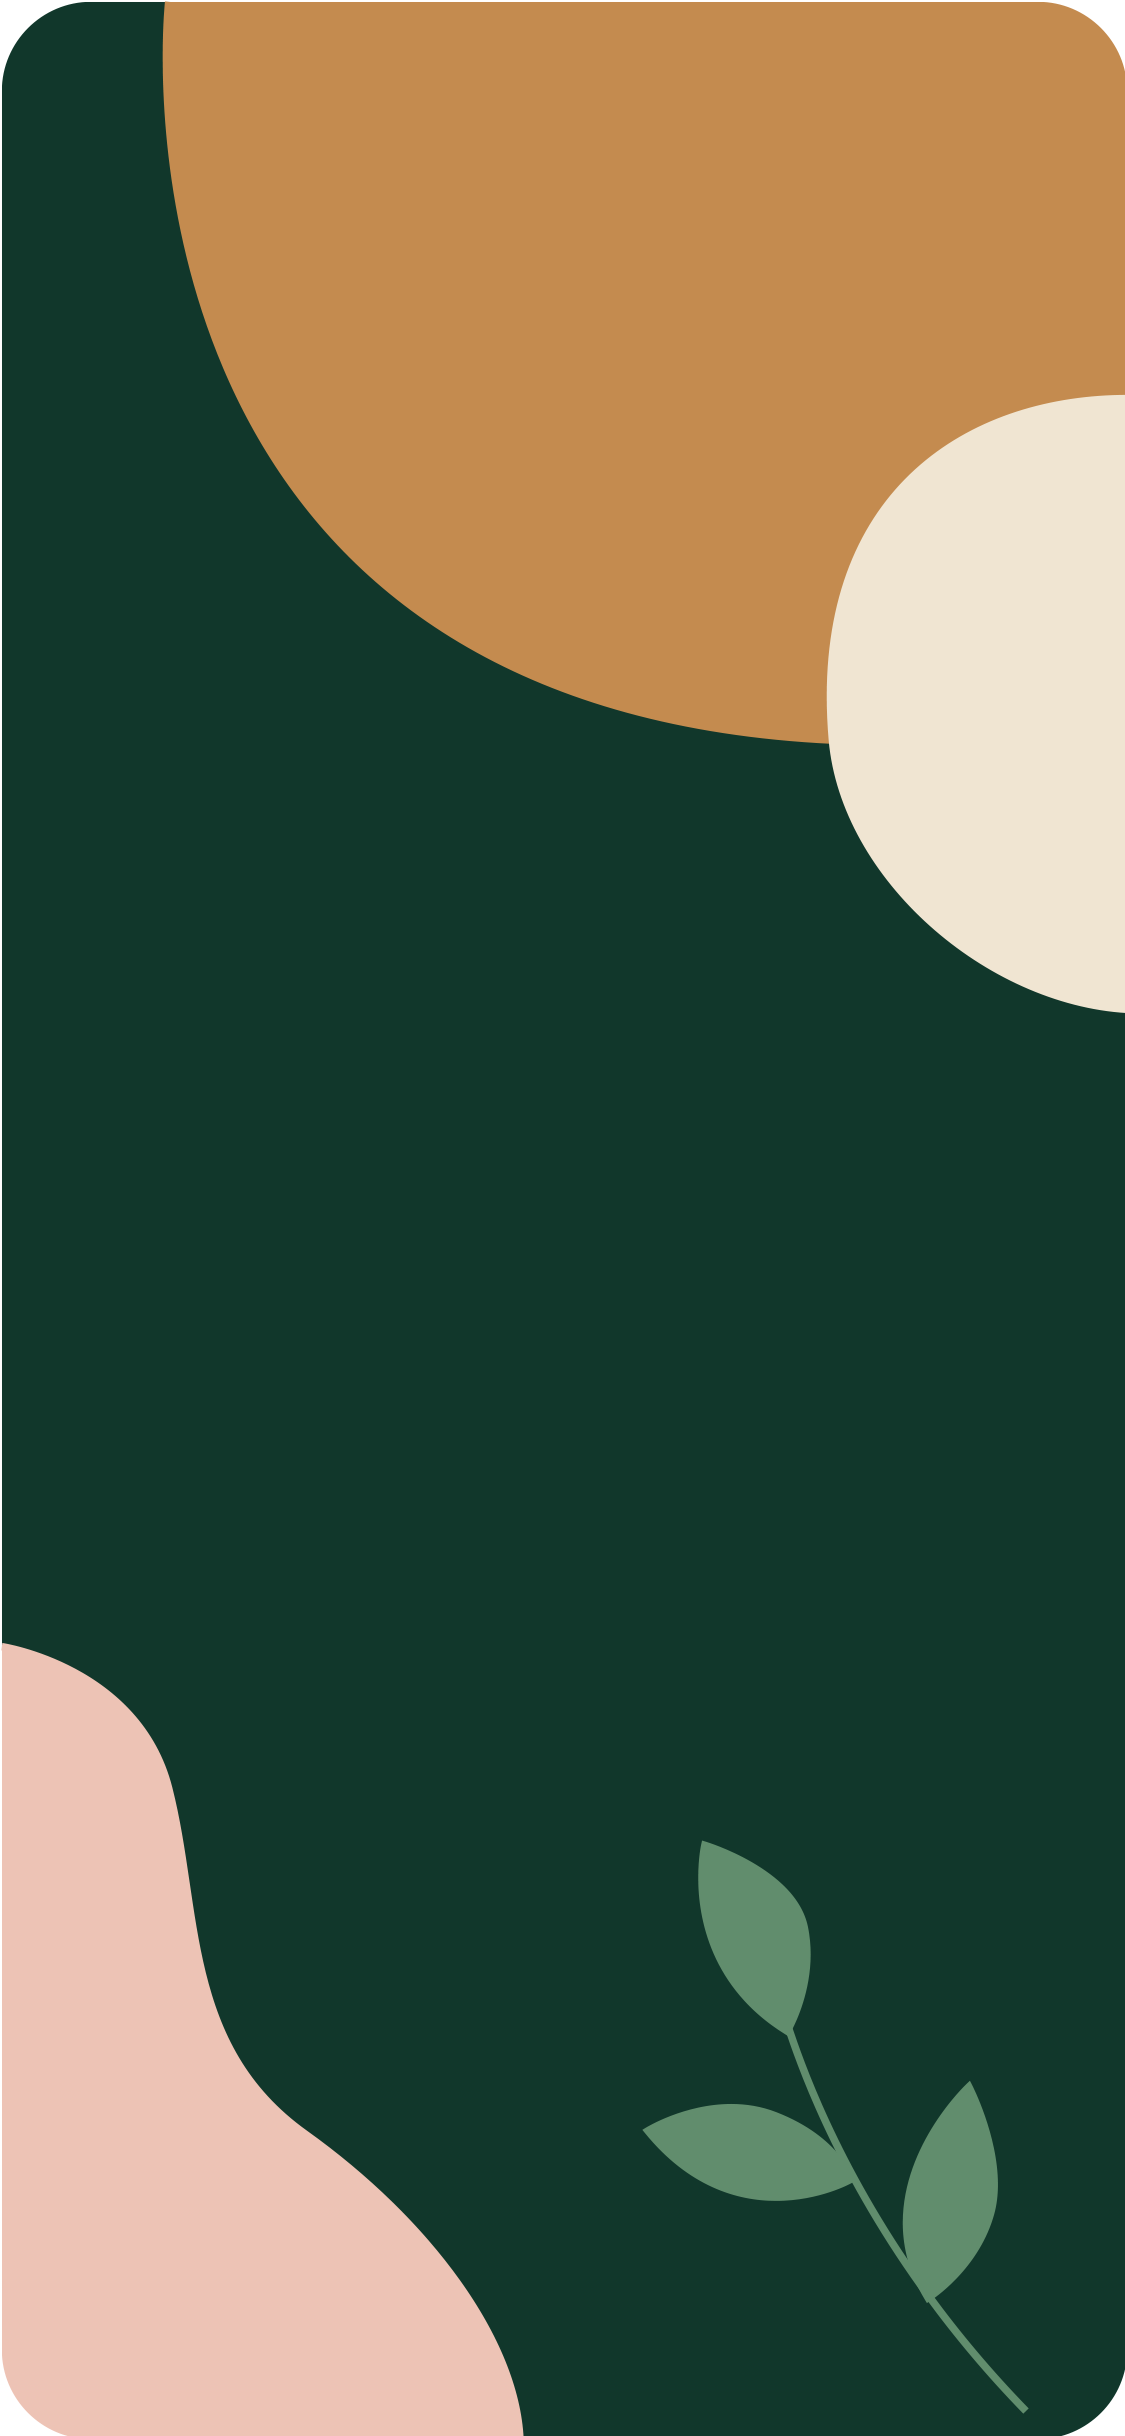
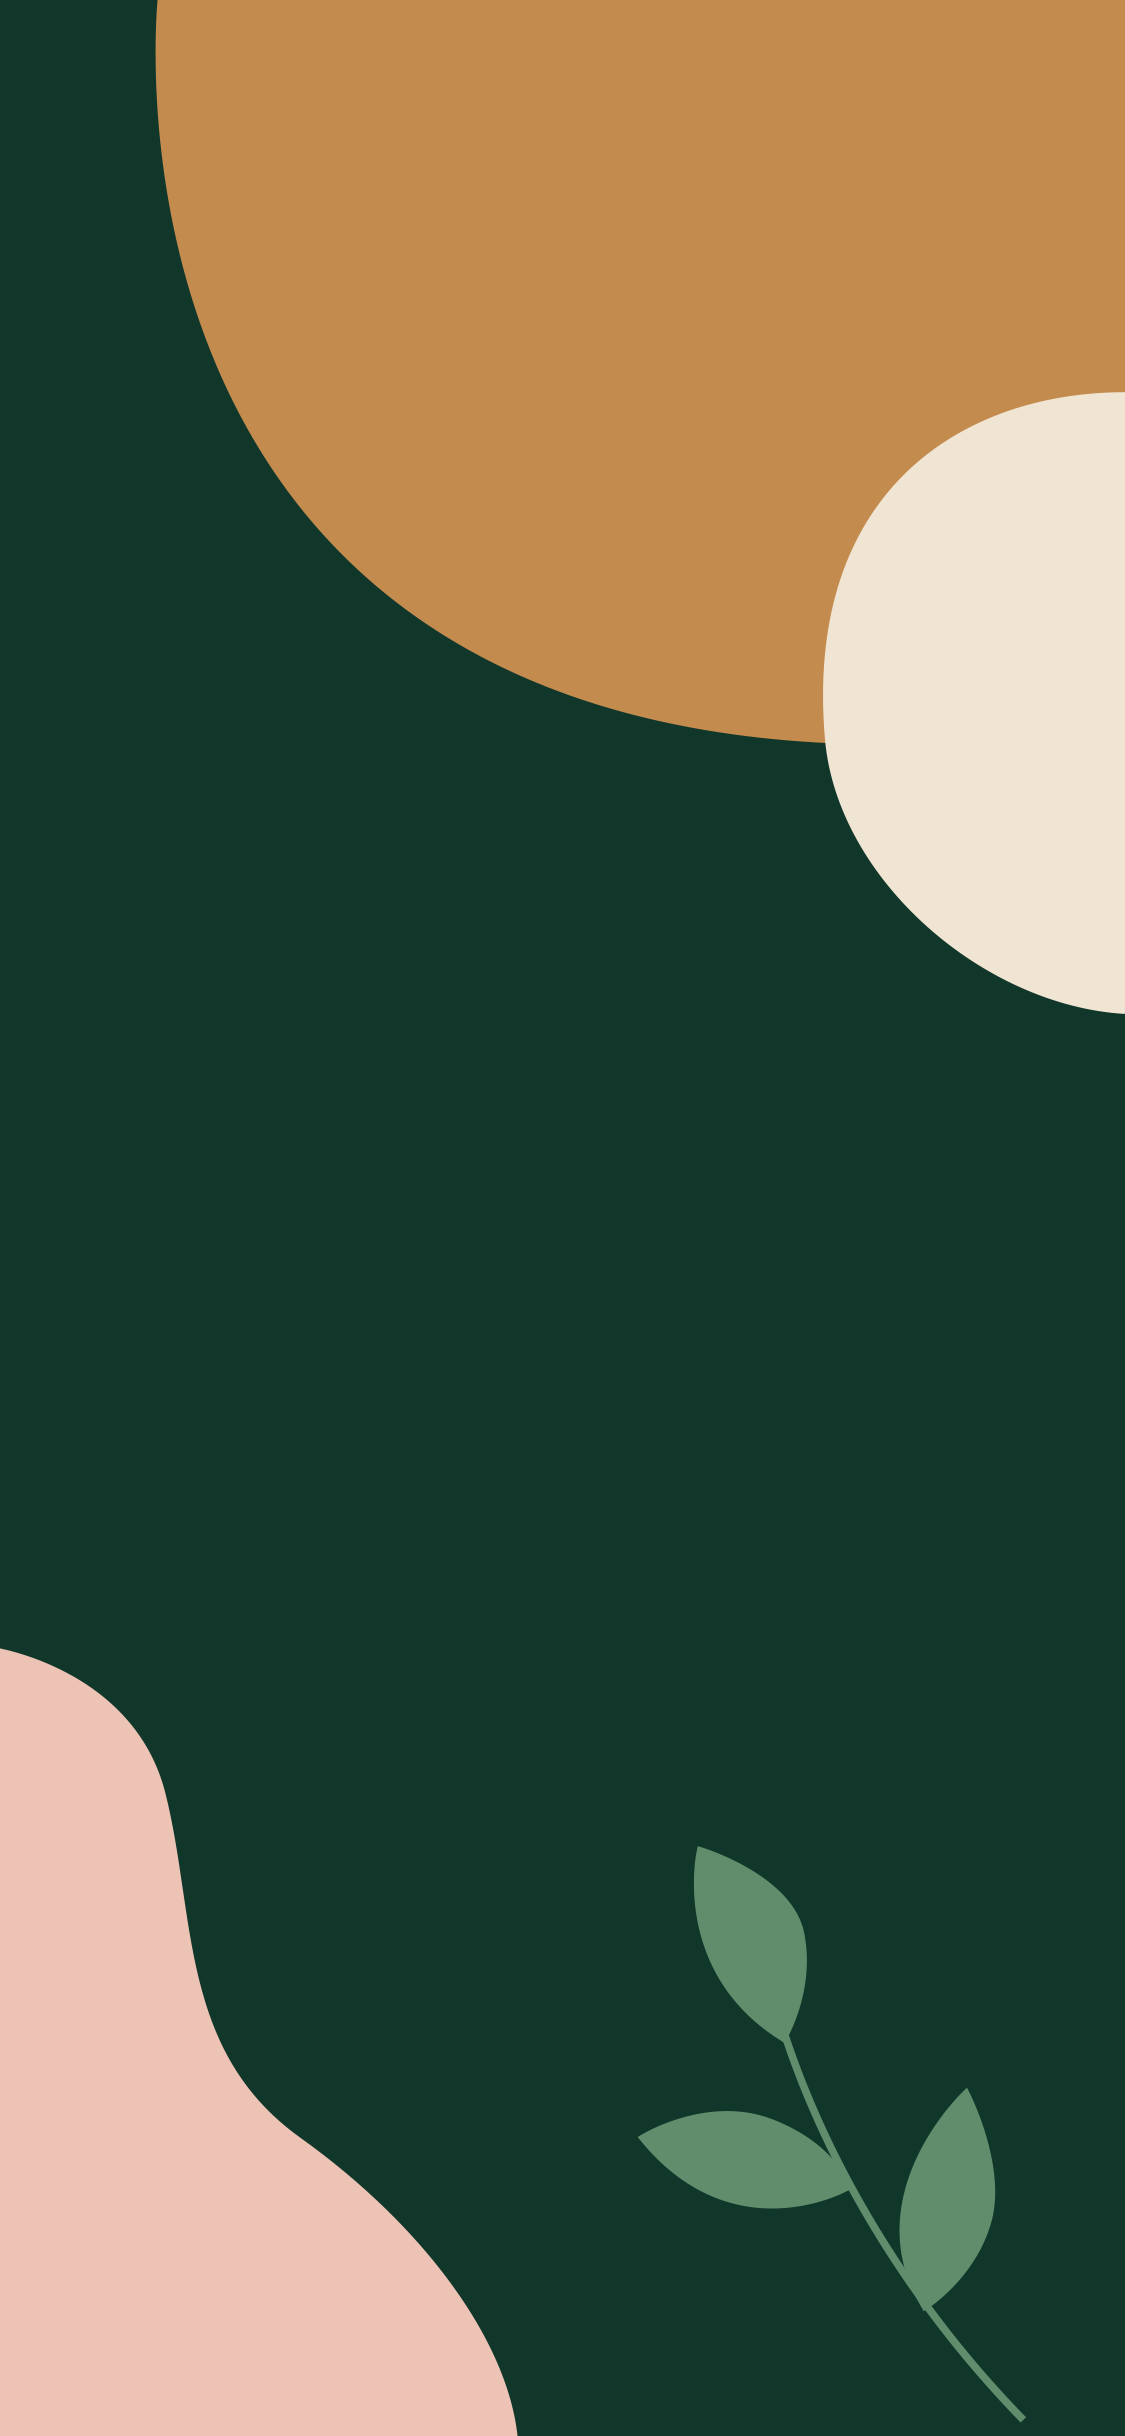
cover update

diff --git a/app/assets/stylesheets/components/_cards.scss b/app/assets/stylesheets/components/_cards.scss
@@ -85,7 +85,14 @@
 .info-card {
   border-top-left-radius: 50px;
   border-top-right-radius: 50px;
-  background-color: $dark-green;
+  background-color: #12511b;
   color: white;
   flex-grow: 1;
-}
+ }
+
+
+ .info-card .button_next_step {
+  background-color: #376117;;
+  color:white;
+  background-color: #1f3210;
+ }

diff --git a/app/assets/stylesheets/pages/_home.scss b/app/assets/stylesheets/pages/_home.scss
@@ -1,6 +1,6 @@
 // Specific CSS for your home-page
 .logo {
-  background-image: asset-url('gorillaz_canopee_2.png');
+  background-image: asset-url('gorillaz_canopee_3.png');
   background-position: center;
   height: 100vh;
   max-width: 100%;

diff --git a/config/routes.rb b/config/routes.rb
@@ -36,6 +36,4 @@ Rails.application.routes.draw do
   # post "gardens/:id/validate_plants", to: "gardens#validate_plants", as: :validate_plants_garden
   get "gardens/:id/select_plants", to: "gardens#select_plants", as: :select_plants
 
-
-
 end
